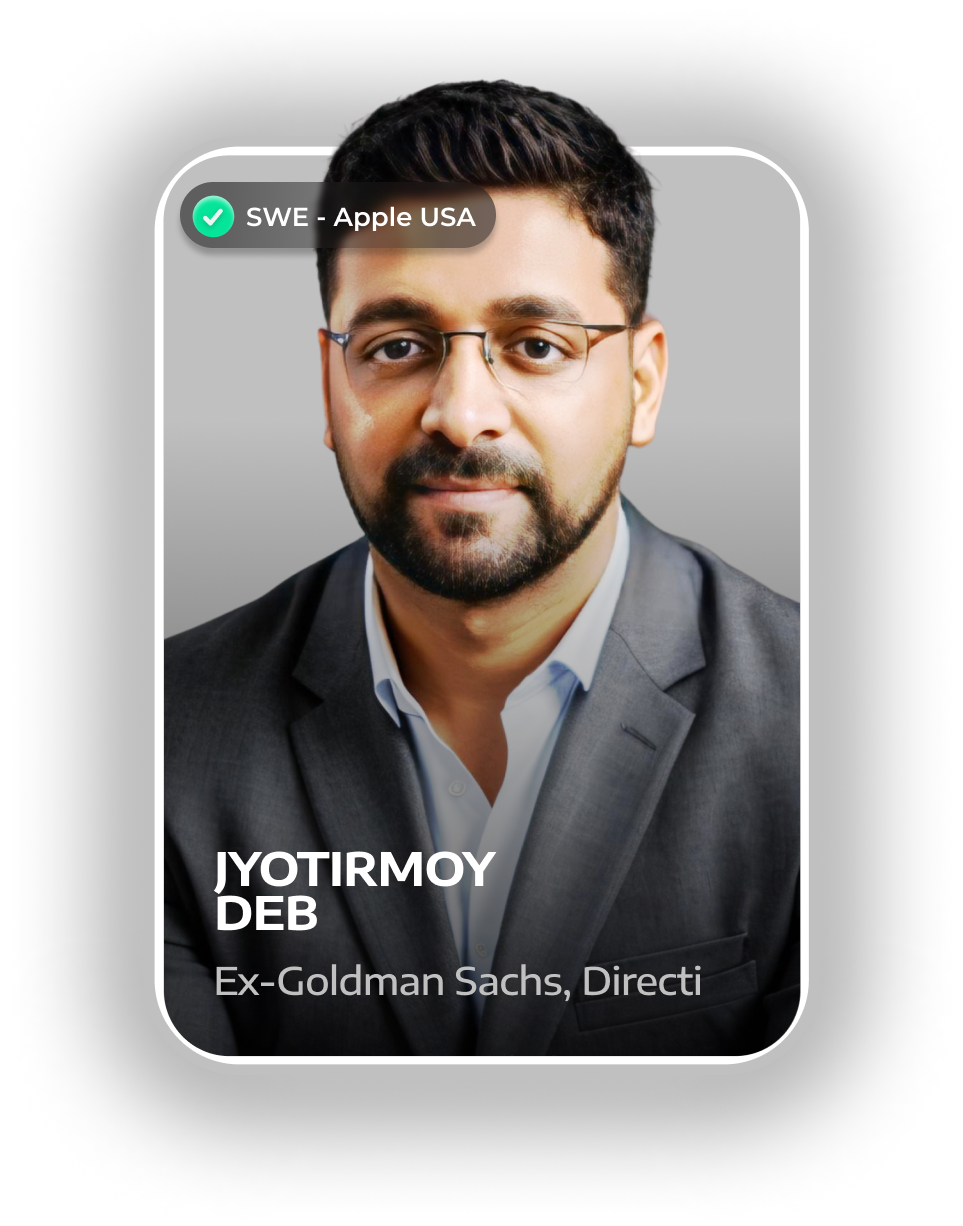
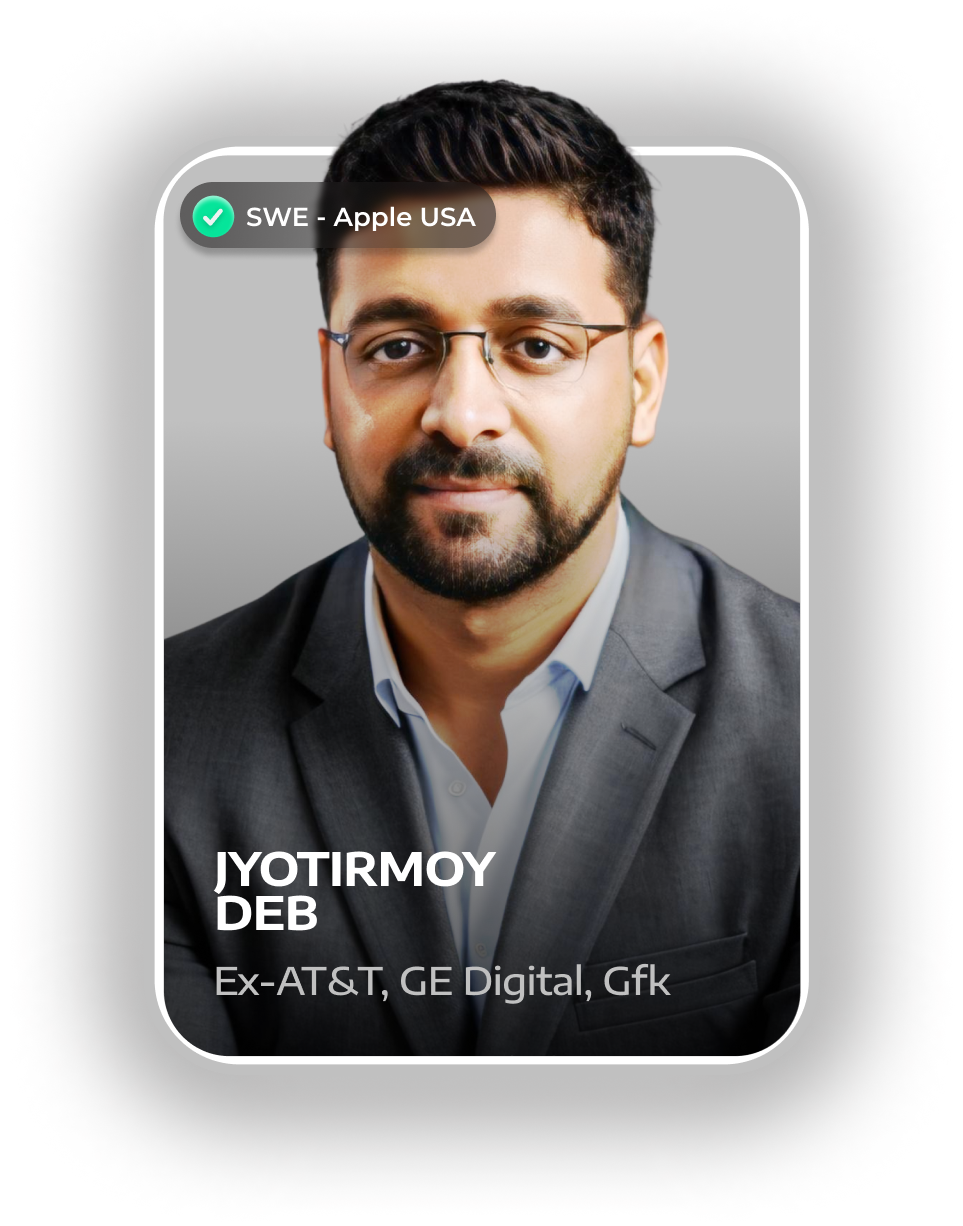
updated some images and texts and added shine animation in download brochure button

Changed region(s): [[0.2804, 0.7749, 0.7165, 0.8369]]

diff --git a/src/utils/index.ts b/src/utils/index.ts
@@ -735,7 +735,7 @@ export const Mentors: Mentor[] = [
     mentorImage: M1,
     mentorAlt: 'N1',
     mentorName: 'Supriya Sharma',
-    mentorExperience: 'Software Engineer 3 @Google | Ex Associate @Goldman Sachs Ex Software Engineer @UnitedHealth Group 7 Years of Experience | System Design Instructor & Mentor @InterviewCall',
+    mentorExperience: 'Software Engineer 3 @Google | Ex Associate @Goldman Sachs Ex Software Engineer @UnitedHealth Group 8 Years of Experience | System Design Instructor & Mentor @InterviewCall',
     mentorLinkedinProfile: 'https://www.linkedin.com/in/supriya-sharma-901675b1/'
   },
 
@@ -745,6 +745,19 @@ export const Mentors: Mentor[] = [
     cardWrapperZIndex: mentorCardPositioning.zIndexes[1],
     cardHeight: mentorCardPositioning.cardHeight[1],
     cardWidth: mentorCardPositioning.cardWidth[1],
+    mentorImage: M3,
+    mentorAlt: 'N6',
+    mentorName: 'Jyotirmoy Deb',
+    mentorExperience: 'Software Engineer - Apple USA. Ex Software Engineer - AT&T. 15 Years of Experience. Web Dev Instructor & Mentor @InterviewCall',
+    mentorLinkedinProfile: 'https://www.linkedin.com/in/jyotirmoydeb/'
+  },
+
+  {
+    cardWrapperTopPosition: mentorCardPositioning.topPositions[2],
+    cardWrapperLeftPosition: mentorCardPositioning.leftPositions[2],
+    cardWrapperZIndex: mentorCardPositioning.zIndexes[2],
+    cardHeight: mentorCardPositioning.cardHeight[2],
+    cardWidth: mentorCardPositioning.cardWidth[2],
     mentorImage: M2,
     mentorAlt: 'N2',
     mentorName: 'Vishal Sharma',
@@ -753,89 +766,11 @@ export const Mentors: Mentor[] = [
   },
 
   {
-    cardWrapperTopPosition: mentorCardPositioning.topPositions[2],
-    cardWrapperLeftPosition: mentorCardPositioning.leftPositions[2],
-    cardWrapperZIndex: mentorCardPositioning.zIndexes[2],
-    cardHeight: mentorCardPositioning.cardHeight[2],
-    cardWidth: mentorCardPositioning.cardWidth[2],
-    mentorImage: M10,
-    mentorAlt: 'N5',
-    mentorName: 'Gurtej Singh Rehal',
-    mentorExperience: 'Software Engineer @Meta London | Ex SDE 2 @Microsoft | Ex Software Engineer @Amazon, @TCS | 5 Years of Experience | Web Dev Instructor & Mentor @InterviewCall',
-    mentorLinkedinProfile: 'https://www.linkedin.com/in/gurtejrehal/'
-  },
-
-  {
     cardWrapperTopPosition: mentorCardPositioning.topPositions[0],
     cardWrapperLeftPosition: mentorCardPositioning.leftPositions[0],
     cardWrapperZIndex: mentorCardPositioning.zIndexes[0],
     cardHeight: mentorCardPositioning.cardHeight[0],
     cardWidth: mentorCardPositioning.cardWidth[0],
-    mentorImage: M4,
-    mentorAlt: 'N1',
-    mentorName: 'Maria Shah',
-    mentorExperience: 'Certified Neuro Linguistic Programming (NLP) Instructor | Ex Trainer - ICICI, HDFC, Kotak, Axis 14 Years of Experience | Soft Skill Instructor & Mentor @InterviewCall',
-    mentorLinkedinProfile: 'https://www.linkedin.com/in/coachmariashah/'
-  },
-
-  {
-    cardWrapperTopPosition: mentorCardPositioning.topPositions[1],
-    cardWrapperLeftPosition: mentorCardPositioning.leftPositions[1],
-    cardWrapperZIndex: mentorCardPositioning.zIndexes[1],
-    cardHeight: mentorCardPositioning.cardHeight[1],
-    cardWidth: mentorCardPositioning.cardWidth[1],
-    mentorImage: M5,
-    mentorAlt: 'N5',
-    mentorName: 'Mostafizur Rahaman',
-    mentorExperience: 'Ex Software Engineer @The D.E. Shaw Group India | Ex Software Engineer @Waxwing, getgpt.ai, Infosys | 4 Years of Experience | DSA Instructor & Mentor @InterviewCall',
-    mentorLinkedinProfile: 'https://www.linkedin.com/in/mostafijur-rahaman-21a2aa50/'
-  },
-
-  {
-    cardWrapperTopPosition: mentorCardPositioning.topPositions[2],
-    cardWrapperLeftPosition: mentorCardPositioning.leftPositions[2],
-    cardWrapperZIndex: mentorCardPositioning.zIndexes[2],
-    cardHeight: mentorCardPositioning.cardHeight[2],
-    cardWidth: mentorCardPositioning.cardWidth[2],
-    mentorImage: M6,
-    mentorAlt: 'N4',
-    mentorName: 'Saurabh Singh',
-    mentorExperience: 'Software Engineer 3 @Walmart India | Ex Software Engineer @Infosys | 5.5 Years of Experience | Web Dev Instructor & Mentor @InterviewCall',
-    mentorLinkedinProfile: 'https://www.linkedin.com/in/singhster/'
-  },
-
-  {
-    cardWrapperTopPosition: mentorCardPositioning.topPositions[0],
-    cardWrapperLeftPosition: mentorCardPositioning.leftPositions[0],
-    cardWrapperZIndex: mentorCardPositioning.zIndexes[0],
-    cardHeight: mentorCardPositioning.cardHeight[0],
-    cardWidth: mentorCardPositioning.cardWidth[0],
-    mentorImage: M7,
-    mentorAlt: 'N3',
-    mentorName: 'Syed Abbas',
-    mentorExperience: 'Software Engineer @NEC Corporation India | Ex Software Engineer @Ecera System | 3 Years of Experience | Web Dev Instructor & Mentor @InterviewCall',
-    mentorLinkedinProfile: 'https://www.linkedin.com/in/syedabbasnec/'
-  },
-
-  {
-    cardWrapperTopPosition: mentorCardPositioning.topPositions[1],
-    cardWrapperLeftPosition: mentorCardPositioning.leftPositions[1],
-    cardWrapperZIndex: mentorCardPositioning.zIndexes[1],
-    cardHeight: mentorCardPositioning.cardHeight[1],
-    cardWidth: mentorCardPositioning.cardWidth[1],
-    mentorImage: M8,
-    mentorAlt: 'N5',
-    mentorName: 'Sumit Roy',
-    mentorExperience: 'Software Engineer 2 @Atlassian | Ex Senior Software Engineer @Unacamy | Ex Software Engineer @bigbasket.com, Cyware Labs | & Years of Experience | System Design Instructor & Mentor @InterviewCall',
-    mentorLinkedinProfile: 'https://www.linkedin.com/in/sroy8091/'
-  },
-
-  {
-    cardWrapperTopPosition: mentorCardPositioning.topPositions[2],
-    cardWrapperLeftPosition: mentorCardPositioning.leftPositions[2],
-    cardWrapperZIndex: mentorCardPositioning.zIndexes[2],
-    cardHeight: mentorCardPositioning.cardHeight[2],
-    cardWidth: mentorCardPositioning.cardWidth[2],
     mentorImage: M9,
     mentorAlt: 'N2',
     mentorName: 'Soham Dasgupta',
@@ -844,16 +779,81 @@ export const Mentors: Mentor[] = [
   },
 
   {
+    cardWrapperTopPosition: mentorCardPositioning.topPositions[1],
+    cardWrapperLeftPosition: mentorCardPositioning.leftPositions[1],
+    cardWrapperZIndex: mentorCardPositioning.zIndexes[1],
+    cardHeight: mentorCardPositioning.cardHeight[1],
+    cardWidth: mentorCardPositioning.cardWidth[1],
+    mentorImage: M10,
+    mentorAlt: 'N5',
+    mentorName: 'Gurtej Singh Rehal',
+    mentorExperience: 'Software Engineer @Meta London | Ex SDE 2 @Microsoft | Ex Software Engineer @Amazon, @TCS | 5 Years of Experience | Web Dev Instructor & Mentor @InterviewCall',
+    mentorLinkedinProfile: 'https://www.linkedin.com/in/gurtejrehal/'
+  },
+
+  {
+    cardWrapperTopPosition: mentorCardPositioning.topPositions[2],
+    cardWrapperLeftPosition: mentorCardPositioning.leftPositions[2],
+    cardWrapperZIndex: mentorCardPositioning.zIndexes[2],
+    cardHeight: mentorCardPositioning.cardHeight[2],
+    cardWidth: mentorCardPositioning.cardWidth[2],
+    mentorImage: M8,
+    mentorAlt: 'N5',
+    mentorName: 'Sumit Roy',
+    mentorExperience: 'Software Engineer 2 @Atlassian | Ex Senior Software Engineer @Unacamy | Ex Software Engineer @bigbasket.com, Cyware Labs | & Years of Experience | System Design Instructor & Mentor @InterviewCall',
+    mentorLinkedinProfile: 'https://www.linkedin.com/in/sroy8091/'
+  },
+
+  {
     cardWrapperTopPosition: mentorCardPositioning.topPositions[0],
     cardWrapperLeftPosition: mentorCardPositioning.leftPositions[0],
     cardWrapperZIndex: mentorCardPositioning.zIndexes[0],
     cardHeight: mentorCardPositioning.cardHeight[0],
     cardWidth: mentorCardPositioning.cardWidth[0],
-    mentorImage: M3,
-    mentorAlt: 'N6',
-    mentorName: 'Jyotirmoy Deb',
-    mentorExperience: 'Software Engineer - Apple USA. Ex Software Engineer - AT&T. 11 Years of Experience. Web Dev Instructor & Mentor @InterviewCall',
-    mentorLinkedinProfile: 'https://www.linkedin.com/in/jyotirmoydeb/'
+    mentorImage: M6,
+    mentorAlt: 'N4',
+    mentorName: 'Saurabh Singh',
+    mentorExperience: 'Software Engineer 3 @Walmart India | Ex Software Engineer @Infosys | 5.5 Years of Experience | Web Dev Instructor & Mentor @InterviewCall',
+    mentorLinkedinProfile: 'https://www.linkedin.com/in/singhster/'
+  },
+
+  {
+    cardWrapperTopPosition: mentorCardPositioning.topPositions[1],
+    cardWrapperLeftPosition: mentorCardPositioning.leftPositions[1],
+    cardWrapperZIndex: mentorCardPositioning.zIndexes[1],
+    cardHeight: mentorCardPositioning.cardHeight[1],
+    cardWidth: mentorCardPositioning.cardWidth[1],
+    mentorImage: M12,
+    mentorAlt: 'N5',
+    mentorName: 'Ankit Gupta',
+    mentorExperience: 'Software Engineer 2 @Atlassian India | Ex - Software Engineer @Decision Fiction | 5 Years of Experience | Web Dev Mentor @InterviewCall',
+    mentorLinkedinProfile: 'https://www.linkedin.com/in/i-ankit25/'
+  },
+
+  {
+    cardWrapperTopPosition: mentorCardPositioning.topPositions[2],
+    cardWrapperLeftPosition: mentorCardPositioning.leftPositions[2],
+    cardWrapperZIndex: mentorCardPositioning.zIndexes[2],
+    cardHeight: mentorCardPositioning.cardHeight[2],
+    cardWidth: mentorCardPositioning.cardWidth[2],
+    mentorImage: M4,
+    mentorAlt: 'N1',
+    mentorName: 'Maria Shah',
+    mentorExperience: 'Certified Neuro Linguistic Programming (NLP) Instructor | Ex Trainer - ICICI, HDFC, Kotak, Axis 14 Years of Experience | Soft Skill Instructor & Mentor @InterviewCall',
+    mentorLinkedinProfile: 'https://www.linkedin.com/in/coachmariashah/'
+  },
+
+  {
+    cardWrapperTopPosition: mentorCardPositioning.topPositions[0],
+    cardWrapperLeftPosition: mentorCardPositioning.leftPositions[0],
+    cardWrapperZIndex: mentorCardPositioning.zIndexes[0],
+    cardHeight: mentorCardPositioning.cardHeight[0],
+    cardWidth: mentorCardPositioning.cardWidth[0],
+    mentorImage: M5,
+    mentorAlt: 'N5',
+    mentorName: 'Mostafizur Rahaman',
+    mentorExperience: 'Ex Software Engineer @The D.E. Shaw Group India | Ex Software Engineer @Waxwing, getgpt.ai, Infosys | 4 Years of Experience | DSA Instructor & Mentor @InterviewCall',
+    mentorLinkedinProfile: 'https://www.linkedin.com/in/mostafijur-rahaman-21a2aa50/'
   },
 
   {
@@ -875,11 +875,11 @@ export const Mentors: Mentor[] = [
     cardWrapperZIndex: mentorCardPositioning.zIndexes[2],
     cardHeight: mentorCardPositioning.cardHeight[2],
     cardWidth: mentorCardPositioning.cardWidth[2],
-    mentorImage: M12,
-    mentorAlt: 'N5',
-    mentorName: 'Ankit Gupta',
-    mentorExperience: 'Software Engineer 2 @Atlassian India | Ex - Software Engineer @Decision Fiction | 5 Years of Experience | Web Dev Mentor @InterviewCall',
-    mentorLinkedinProfile: 'https://www.linkedin.com/in/i-ankit25/'
+    mentorImage: M7,
+    mentorAlt: 'N3',
+    mentorName: 'Syed Abbas',
+    mentorExperience: 'Software Engineer @NEC Corporation India | Ex Software Engineer @Ecera System | 3 Years of Experience | Web Dev Instructor & Mentor @InterviewCall',
+    mentorLinkedinProfile: 'https://www.linkedin.com/in/syedabbasnec/'
   },
 ];
 

diff --git a/src/components/Sections/Alumni/AlumniSection.tsx b/src/components/Sections/Alumni/AlumniSection.tsx
@@ -13,17 +13,14 @@ import DownloadBrochureButton from './DownloadBrochureButton';
 
 const AlumniSection: FC = () => {
   const [downloadButtonName, setDownloadButtonName] = useState('');
-  const [buttonTitle, setButtonTitle] = useState('');
   const pathName = usePathname();
 
   useEffect(() => {
     if(pathName == '/fullstack-mern') {
       setDownloadButtonName('Full Stack Web Development Brochure');
-      setButtonTitle('DOWNLOAD MERN BROCHURE');
     }
     else if(pathName == '/job-switch') {
       setDownloadButtonName('Job Switch Bootcamp Brochure');
-      setButtonTitle('Download Job Switch Bootcamp Brochure');
     }
   }, [pathName]);
 
@@ -34,7 +31,7 @@ const AlumniSection: FC = () => {
         <p className='md:text-2xl text-lg font-medium text-white text-center'>
           {downloadButtonName}
         </p>
-        <DownloadBrochureButton buttonTitle={buttonTitle} />
+        <DownloadBrochureButton />
       </div>
 
       {/* Alumni Section */}
@@ -118,10 +115,10 @@ const AlumniSection: FC = () => {
 
         {/* Marquee Section */}
         <div className='w-screen bg-darkblue mt-8'>
-          <Marquee className='w-screen'>
+          <Marquee  autoFill className='w-screen'>
             <div className='bg-darkblue flex gap-6 text-white md:text-xl text-base font-medium overflow-clip p-2'>
               {Array.from({ length: 4 }).map((_, i) => (
-                <p key={i}>Batch starts on 10th Sept 2024. LIMITED SEATS.</p>
+                <p key={i}>Batch starts in January 2025.</p>
               ))}
             </div>
           </Marquee>

diff --git a/src/components/Sections/Alumni/DownloadBrochureButton.tsx b/src/components/Sections/Alumni/DownloadBrochureButton.tsx
@@ -3,18 +3,17 @@
 import { FC } from 'react';
 import { GoArrowDown } from 'react-icons/go';
 
-import { DownloadBrochureButtonProps } from '@/types';
-
-const DownloadBrochureButton: FC<DownloadBrochureButtonProps> = ({ buttonTitle }) => {
+const DownloadBrochureButton: FC = () => {
     return (
-        <button className='brochure py-2 px-4 rounded-full flex justify-between items-center border border-white download-brochure'>
-          <p className='text-base text-white font-medium uppercase'>
-            {buttonTitle}
-          </p>
-          <div className='p-2 rounded-full bg-white flex items-center justify-center'>
-            <GoArrowDown className='w-6 h-6' />
-          </div>
-        </button>
+      <button className='relative brochure py-2 px-4 rounded-full flex gap-5 bg-black text-white items-center border border-white download-brochure overflow-hidden'>
+        <span className='animate-shine absolute w-full h-full  bg-gradient-to-r from-transparent via-white to-transparent cursor-default'></span>
+        <p className='ml-2 text-base font-medium uppercase'>
+          Download Brochure
+        </p>
+        <div className='p-1 rounded-full bg-white text-black flex items-center justify-center'>
+          <GoArrowDown className='w-6 h-6' />
+        </div>
+      </button>
     );
 };
 

diff --git a/tailwind.config.ts b/tailwind.config.ts
@@ -85,12 +85,25 @@ export default {
           '0%': { transform: 'rotate(0deg)' },
           '100%': { transform: 'rotate(360deg)' },
         },
+
+        shine: {
+          '0%': {
+            left: '-100%'
+          },
+          '20%': {
+            left: '100%'
+          },
+          '100%': {
+            left: '100%'
+          }
+        }
         
       },
       animation: {
         flicker: 'flicker 3s linear infinite',
         shimmer: 'shimmer 1.3s linear infinite',
         rotateSlow: 'rotateInfinite 30s linear infinite',
+        shine: 'shine 3s linear infinite'
       },
     },
   },

diff --git a/src/components/Sections/Hero/HeroSection.tsx b/src/components/Sections/Hero/HeroSection.tsx
@@ -17,7 +17,7 @@ const HeroSection: FC = () => {
   useEffect(() => {
     if(pathName == '/fullstack-mern') {
       setTitle('Full Stack Web Development with Placement Assistance');
-      setDescription('Choose MERN stack or Spring Boot and acquire expertise through practical application and real-world projects.');
+      setDescription('Learn DSA, MERN, System Design, DevOps and AI to become the top 1% developer');
     }
     else if(pathName == '/job-switch') {
       setTitle('Job Switch Bootcamp with Placement Assistance');
